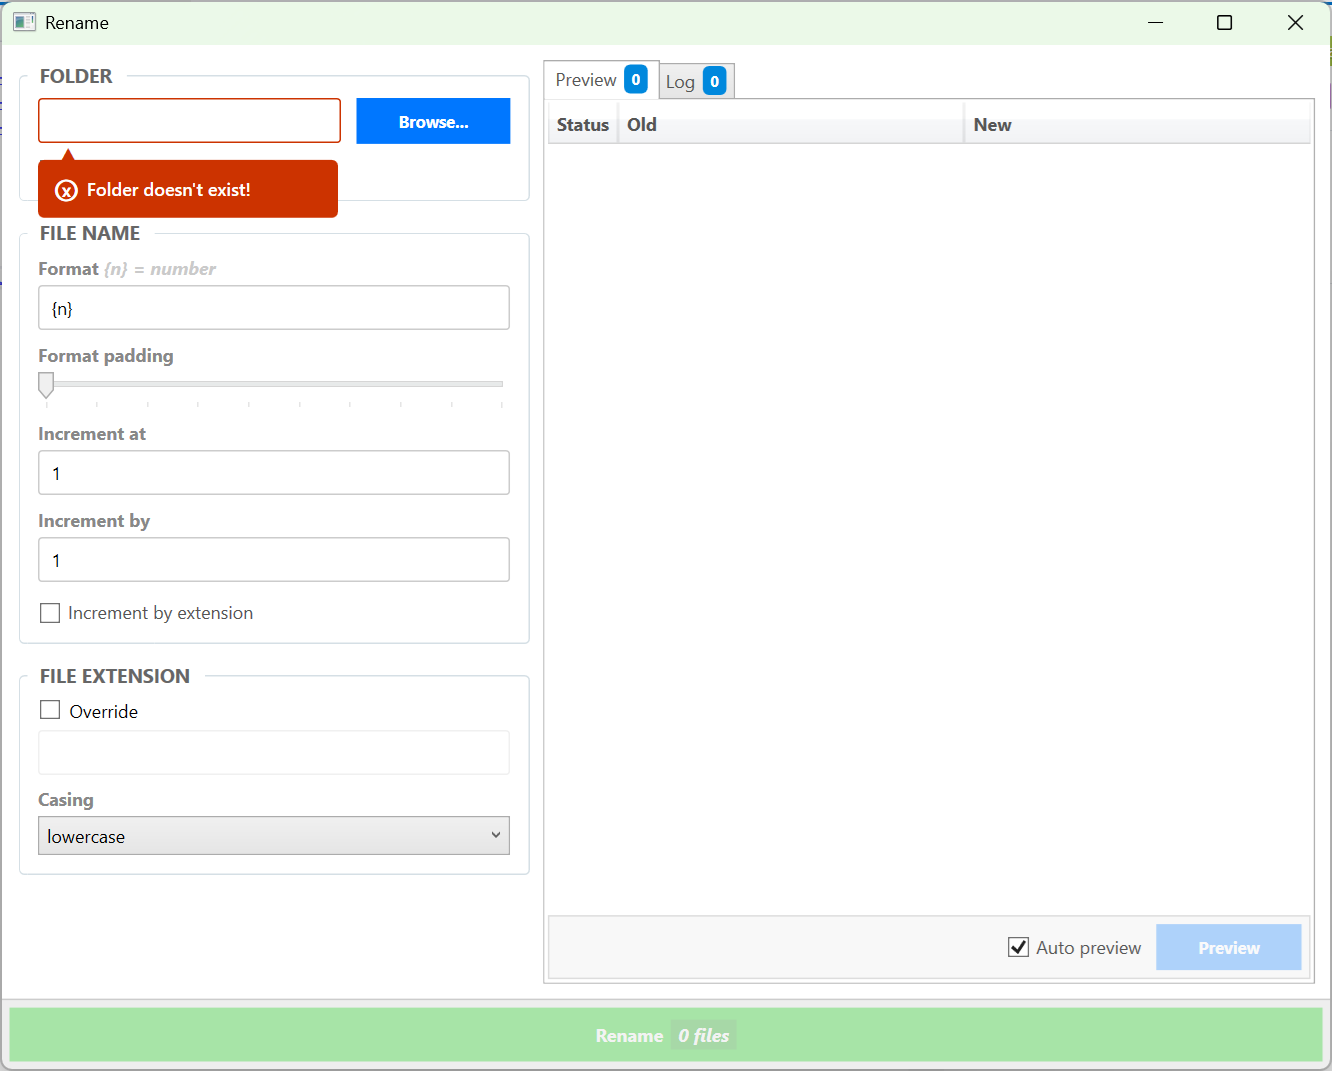
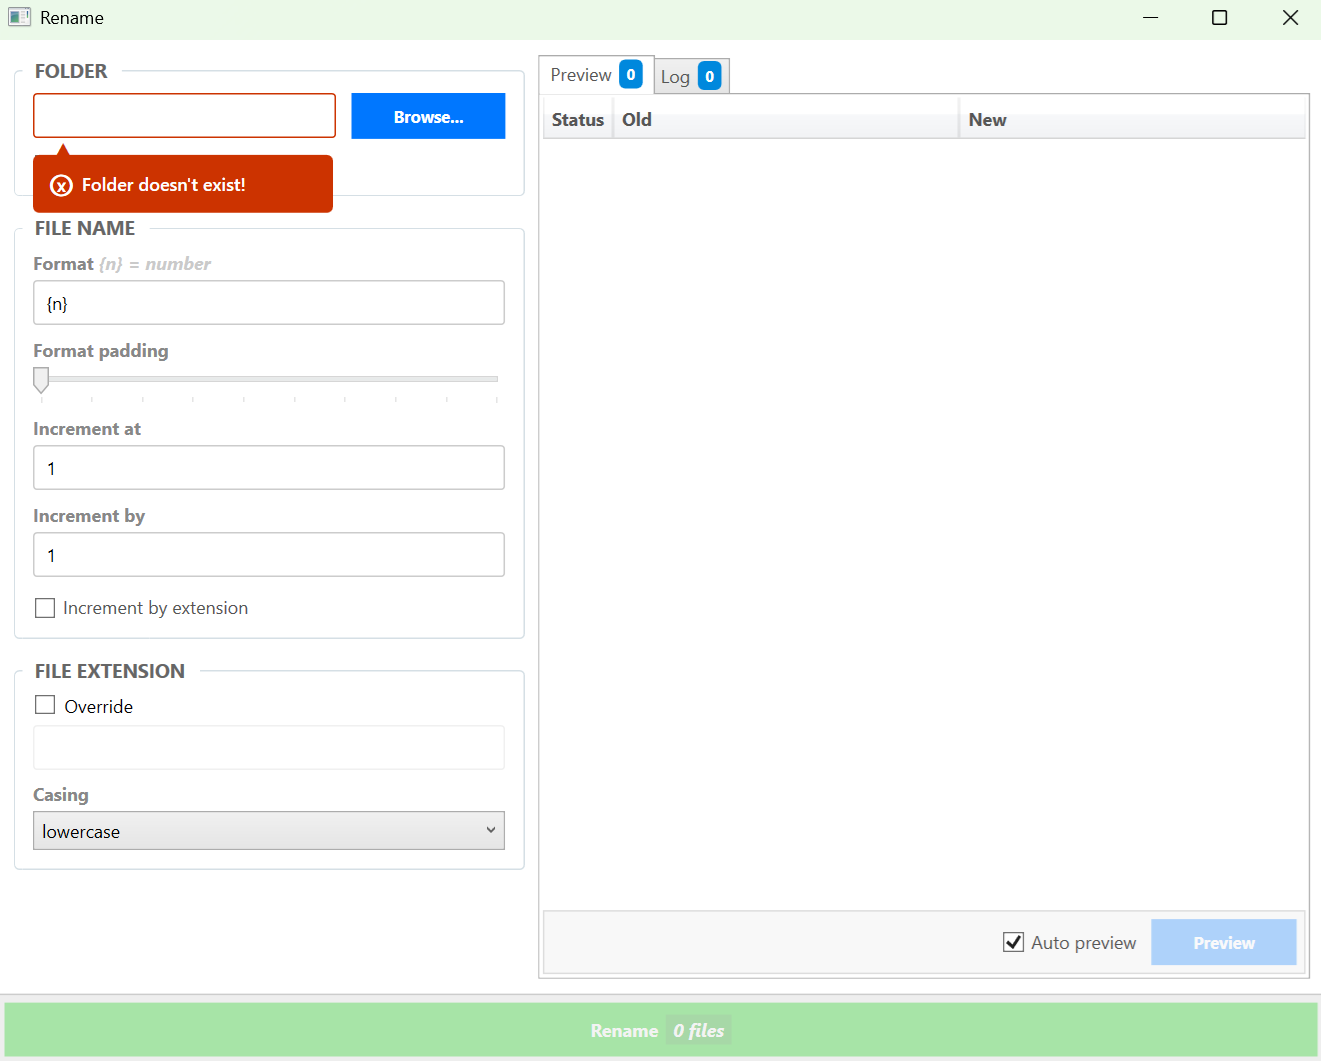
1.0.2

diff --git a/README.md b/README.md
@@ -5,6 +5,8 @@
 ---
 A batch file renaming tool.
 
+ <img src="https://github.com/ionsharp/Ion.Tool.Rename/blob/main/Image/Preview.png?raw=true"/>
+
 Donate
 ---
 [![](https://www.paypalobjects.com/en_US/i/btn/btn_donateCC_LG.gif)](https://www.paypal.com/cgi-bin/webscr?cmd=_s-xclick&hosted_button_id=AJJG6PWLBYQNG)
